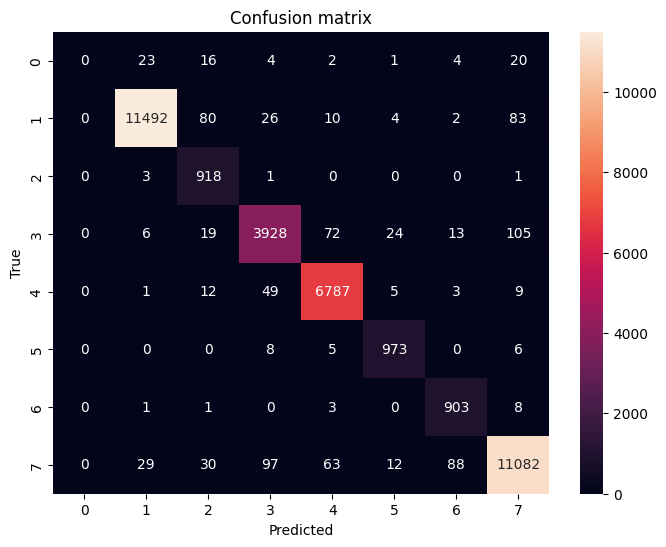
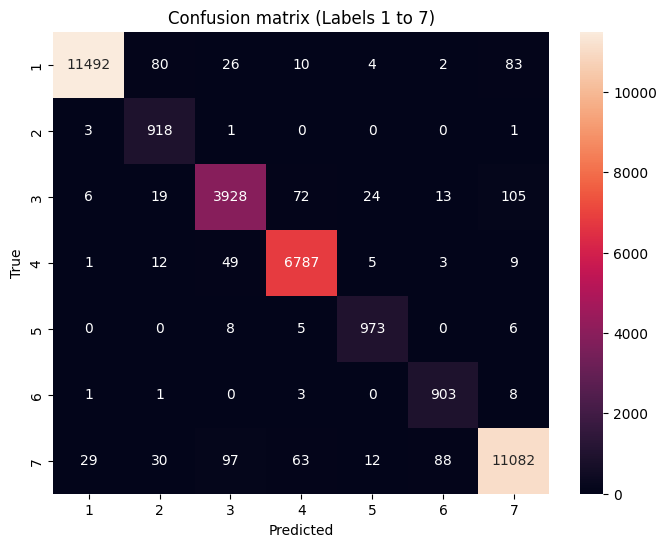
Screenshot4

diff --git a/src/evaluate.py b/src/evaluate.py
@@ -36,12 +36,12 @@ def evaluate(model_path, data_folder, out_reports_folder):
     y_pred = clf.predict(X_feat)
     print(classification_report(y, y_pred))
 
-    cm = confusion_matrix(y, y_pred)
+    cm = confusion_matrix(y, y_pred, labels=range(1, 8))  # Focus on labels 1 to 7
     plt.figure(figsize=(8, 6))
-    sns.heatmap(cm, annot=True, fmt='d')
+    sns.heatmap(cm, annot=True, fmt='d', xticklabels=range(1, 8), yticklabels=range(1, 8))
     plt.xlabel('Predicted')
     plt.ylabel('True')
-    plt.title('Confusion matrix')
+    plt.title('Confusion matrix (Labels 1 to 7)')
     cm_path = Path(out_reports_folder) / 'confusion_matrix_eval.png'
     plt.savefig(cm_path, bbox_inches='tight')
     plt.close()
